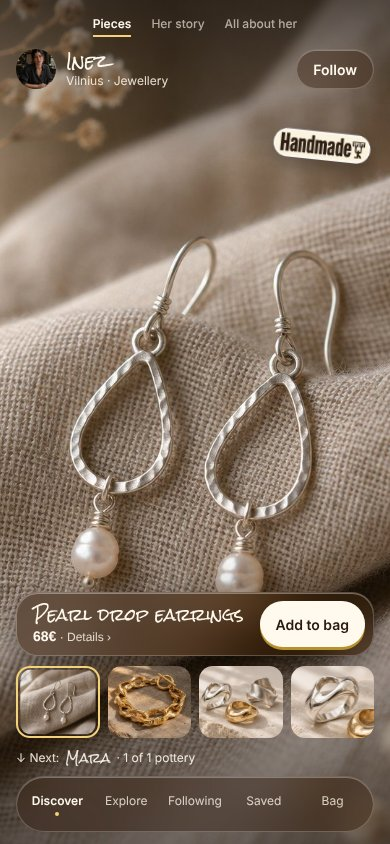
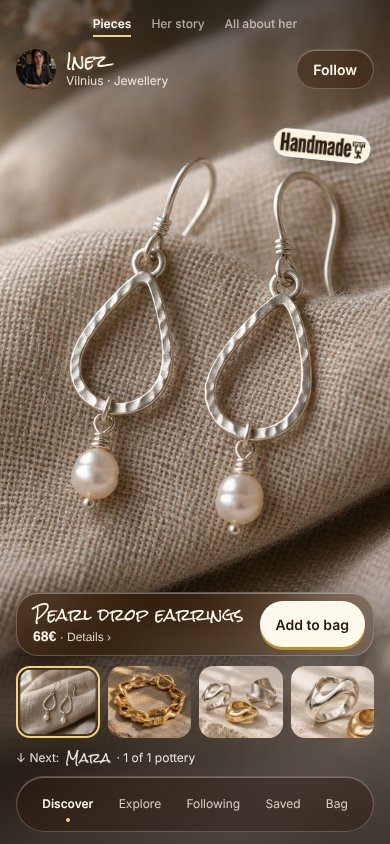
Discover v3: product safe zone (tokens, photo shift, blurred fill, Studio focal point)
Claude-Session: https://claude.ai/code/session_016UKgzHdCXnhGePkvkRhLow

diff --git a/docs/design/screens/03-discover-v3.dc.html b/docs/design/screens/03-discover-v3.dc.html
@@ -47,7 +47,10 @@ button.sec:not(.gs){background:transparent;border:0}
 .lay{position:absolute;inset:0;display:flex;overflow-x:auto;scroll-snap-type:x mandatory;scrollbar-width:none}
 .pan{position:relative;flex:0 0 100%;height:100%;scroll-snap-align:start;overflow:hidden}
 .prof{position:absolute;inset:0;overflow-y:auto;padding:0 16px;scrollbar-width:none}
-.hero{position:absolute;inset:0;width:100%;height:100%;object-fit:cover;transition:opacity .25s}
+.mk{--safe-top:104px;--safe-bottom:262px;--safe-shift:calc((var(--safe-top) - var(--safe-bottom)) / 2)}
+.hero{position:absolute;left:0;width:100%;object-fit:cover;transition:opacity .25s;-webkit-mask-image:linear-gradient(#000 82%,transparent);mask-image:linear-gradient(#000 82%,transparent)}
+.safe{display:none;position:absolute;left:16px;right:16px;top:var(--safe-top);bottom:var(--safe-bottom);border:1.5px dashed #f3d27a;border-radius:12px;z-index:9;pointer-events:none}
+.showsafe .safe{display:block}
 .bar{position:absolute;left:16px;right:16px;bottom:188px;z-index:8;border-radius:22px;padding:8px 8px 8px 16px;height:64px;box-sizing:border-box;display:flex;align-items:center;gap:10px}
 .more{position:absolute;left:16px;right:16px;bottom:106px;z-index:8;display:grid;grid-template-columns:repeat(4,minmax(0,1fr));gap:8px}
 .tb{width:100%;height:72px;border-radius:14px;overflow:hidden;border:0;padding:0;background:none;cursor:pointer;flex-shrink:0;position:relative}
@@ -66,7 +69,9 @@ button.sec:not(.gs){background:transparent;border:0}
 </style>  <div class="feed"><section class="mk" aria-label="Inez">
  <div class="lay">
   <div class="pan">
-    <img class="hero" src="{{hero0}}" alt="{{t0}}">
+    <img aria-hidden="true" src="{{hero0}}" alt="" style="position:absolute;inset:-40px;width:calc(100% + 80px);height:calc(100% + 80px);object-fit:cover;filter:blur(28px) brightness(.7)">
+    <img class="hero" src="{{hero0}}" alt="{{t0}}" style="top:var(--safe-shift);height:100%">
+    <div aria-hidden="true" class="safe"></div>
     <div aria-hidden="true" style="position:absolute;left:0;right:0;top:0;height:160px;z-index:5;pointer-events:none;background:linear-gradient(rgba(22,16,11,.6),rgba(22,16,11,.25) 55%,rgba(22,16,11,0))"></div>
     <div aria-hidden="true" style="position:absolute;left:0;right:0;bottom:0;height:300px;background:linear-gradient(rgba(22,16,11,0),rgba(22,16,11,.55))"></div>
     <div style="position:absolute;left:16px;right:16px;top:16px;z-index:7;display:flex;flex-direction:column;gap:12px">
@@ -110,7 +115,7 @@ button.sec:not(.gs){background:transparent;border:0}
   </div>
  </div>
  <div class="page{{on0}}" role="dialog" aria-label="Piece details">
-    <div style="position:relative;height:420px"><img src="{{hero0}}" alt="" style="width:100%;height:100%;object-fit:cover"><button type="button" aria-label="Close" onClick="{{close}}" class="ic gs" style="position:absolute;right:16px;top:16px">✕</button></div>
+    <div style="position:relative;height:420px"><img src="{{hero0}}" alt="" style="width:100%;height:100%;object-fit:cover"><button type="button" aria-label="Close" onClick="{{close}}" class="ic gs" style="position:absolute;right:16px;top:16px"><svg aria-hidden="true" width="16" height="16" viewBox="0 0 24 24" fill="none" stroke="#fffaed" stroke-width="2.2" stroke-linecap="round" style="display:block"><path d="M6 6l12 12M18 6L6 18"/></svg></button></div>
     <div style="padding:16px 16px 110px">
       <div style="display:flex;align-items:baseline;gap:10px"><span class="hand" style="flex:1;font-size:22px;line-height:1.35">{{t0}}</span><span style="font:600 20px Inter,sans-serif">{{p0}}</span></div>
       <span class="m" style="display:block;font-size:13px;margin-top:4px">{{s0}}</span>
@@ -122,7 +127,9 @@ button.sec:not(.gs){background:transparent;border:0}
 </section><section class="mk" aria-label="Mara">
  <div class="lay">
   <div class="pan">
-    <img class="hero" src="{{hero1}}" alt="{{t1}}">
+    <img aria-hidden="true" src="{{hero1}}" alt="" style="position:absolute;inset:-40px;width:calc(100% + 80px);height:calc(100% + 80px);object-fit:cover;filter:blur(28px) brightness(.7)">
+    <img class="hero" src="{{hero1}}" alt="{{t1}}" style="top:var(--safe-shift);height:100%">
+    <div aria-hidden="true" class="safe"></div>
     <div aria-hidden="true" style="position:absolute;left:0;right:0;top:0;height:160px;z-index:5;pointer-events:none;background:linear-gradient(rgba(22,16,11,.6),rgba(22,16,11,.25) 55%,rgba(22,16,11,0))"></div>
     <div aria-hidden="true" style="position:absolute;left:0;right:0;bottom:0;height:300px;background:linear-gradient(rgba(22,16,11,0),rgba(22,16,11,.55))"></div>
     <div style="position:absolute;left:16px;right:16px;top:16px;z-index:7;display:flex;flex-direction:column;gap:12px">
@@ -166,7 +173,7 @@ button.sec:not(.gs){background:transparent;border:0}
   </div>
  </div>
  <div class="page{{on1}}" role="dialog" aria-label="Piece details">
-    <div style="position:relative;height:420px"><img src="{{hero1}}" alt="" style="width:100%;height:100%;object-fit:cover"><button type="button" aria-label="Close" onClick="{{close}}" class="ic gs" style="position:absolute;right:16px;top:16px">✕</button></div>
+    <div style="position:relative;height:420px"><img src="{{hero1}}" alt="" style="width:100%;height:100%;object-fit:cover"><button type="button" aria-label="Close" onClick="{{close}}" class="ic gs" style="position:absolute;right:16px;top:16px"><svg aria-hidden="true" width="16" height="16" viewBox="0 0 24 24" fill="none" stroke="#fffaed" stroke-width="2.2" stroke-linecap="round" style="display:block"><path d="M6 6l12 12M18 6L6 18"/></svg></button></div>
     <div style="padding:16px 16px 110px">
       <div style="display:flex;align-items:baseline;gap:10px"><span class="hand" style="flex:1;font-size:22px;line-height:1.35">{{t1}}</span><span style="font:600 20px Inter,sans-serif">{{p1}}</span></div>
       <span class="m" style="display:block;font-size:13px;margin-top:4px">{{s1}}</span>
@@ -176,7 +183,7 @@ button.sec:not(.gs){background:transparent;border:0}
     </div>
  </div>
 </section></div>
-<nav aria-label="Main" class="gs" style="position:absolute;left:16px;right:16px;bottom:12px;height:54px;border-radius:999px;display:grid;grid-template-columns:repeat(5,minmax(0,1fr));padding:0 6px;align-items:center;z-index:9"><a href="#" style="display:flex;flex-direction:column;align-items:center;justify-content:center;gap:4px;min-height:44px;text-align:center;color:#fffaed;text-decoration:none;font:600 12px Inter,sans-serif">Discover<span style="width:4px;height:4px;border-radius:50%;background:#f3d27a"></span></a><a href="#" style="display:flex;flex-direction:column;align-items:center;justify-content:center;gap:4px;min-height:44px;text-align:center;color:rgba(255,250,237,.78);text-decoration:none;font:400 12px Inter,sans-serif">Explore<span style="width:4px;height:4px;border-radius:50%;background:transparent"></span></a><a href="#" style="display:flex;flex-direction:column;align-items:center;justify-content:center;gap:4px;min-height:44px;text-align:center;color:rgba(255,250,237,.78);text-decoration:none;font:400 12px Inter,sans-serif">Following<span style="width:4px;height:4px;border-radius:50%;background:transparent"></span></a><a href="#" style="display:flex;flex-direction:column;align-items:center;justify-content:center;gap:4px;min-height:44px;text-align:center;color:rgba(255,250,237,.78);text-decoration:none;font:400 12px Inter,sans-serif">Saved<span style="width:4px;height:4px;border-radius:50%;background:transparent"></span></a><a href="#" style="display:flex;flex-direction:column;align-items:center;justify-content:center;gap:4px;min-height:44px;text-align:center;color:rgba(255,250,237,.78);text-decoration:none;font:400 12px Inter,sans-serif">Bag<span style="width:4px;height:4px;border-radius:50%;background:transparent"></span></a></nav>
+<nav aria-label="Main" class="gs" style="position:absolute;left:16px;right:16px;bottom:12px;height:54px;border-radius:999px;display:flex;justify-content:space-evenly;align-items:stretch;z-index:9"><a href="#" style="position:relative;display:flex;align-items:center;justify-content:center;height:54px;padding:0;text-align:center;color:#fffaed;text-decoration:none;font:600 12px/1 Inter,sans-serif">Discover<span style="position:absolute;left:50%;bottom:9px;margin-left:-2px;width:4px;height:4px;border-radius:50%;background:#f3d27a"></span></a><a href="#" style="position:relative;display:flex;align-items:center;justify-content:center;height:54px;padding:0;text-align:center;color:rgba(255,250,237,.78);text-decoration:none;font:400 12px/1 Inter,sans-serif">Explore<span style="position:absolute;left:50%;bottom:9px;margin-left:-2px;width:4px;height:4px;border-radius:50%;background:transparent"></span></a><a href="#" style="position:relative;display:flex;align-items:center;justify-content:center;height:54px;padding:0;text-align:center;color:rgba(255,250,237,.78);text-decoration:none;font:400 12px/1 Inter,sans-serif">Following<span style="position:absolute;left:50%;bottom:9px;margin-left:-2px;width:4px;height:4px;border-radius:50%;background:transparent"></span></a><a href="#" style="position:relative;display:flex;align-items:center;justify-content:center;height:54px;padding:0;text-align:center;color:rgba(255,250,237,.78);text-decoration:none;font:400 12px/1 Inter,sans-serif">Saved<span style="position:absolute;left:50%;bottom:9px;margin-left:-2px;width:4px;height:4px;border-radius:50%;background:transparent"></span></a><a href="#" style="position:relative;display:flex;align-items:center;justify-content:center;height:54px;padding:0;text-align:center;color:rgba(255,250,237,.78);text-decoration:none;font:400 12px/1 Inter,sans-serif">Bag<span style="position:absolute;left:50%;bottom:9px;margin-left:-2px;width:4px;height:4px;border-radius:50%;background:transparent"></span></a></nav>
 </div>
 </x-dc>
 <script type="text/x-dc" data-dc-script data-props='{"startOn":{"editor":"enum","options":["closed","open"],"default":"closed"},"$preview":{"width":390,"height":844}}'>

diff --git a/docs/ai/FIXES.md b/docs/ai/FIXES.md
@@ -142,6 +142,12 @@ Spec: `docs/design/screens/03-discover-v3.dc.html`. References (real Rock Salt):
   - **No ellipsis on titles, ever.** The full title always shows on one line in the bar (Rock Salt 16). Studio "Add piece" title field gets a hard limit of **20 characters** with a live counter ("19/20"); existing longer titles must be shortened in the data. Second line in the bar is only "68€ · Details ›".
   - Bottom nav: 5 equal columns inside the pill with 6px inner padding, every label centred in its column; the pill uses the same 16px side margin as everything else.
 
+- **Product safe zone (Matas, 2026-11-25 11:50).** The piece must never sit under the glass bar/thumbs at the bottom or the tabs/maker row at the top. Reference with the zone drawn: .
+  - Tokens in :  (below the maker row) and  (above the bar). Safe zone = x 16–374, y 104–582 on 390×844.
+  - The photo is full width, , and shifted up by  (−79px) so its centre sits in the centre of the safe zone. The strip this uncovers at the bottom (behind the bar, thumbs and nav) shows the same photo blurred (28px, brightness .7), and the sharp photo fades into it over its last 18% (mask), so there is no hard edge.
+  - Studio "Add piece" photo step: show this dashed safe-zone frame over the preview and let the maker drag the photo to set a focal point (, 0–1, default .5). Discover uses  instead of the plain centre when present. Copy under the preview: "Keep your piece inside the frame."
+  - Same rule for any future overlay screen: nothing important of the product outside .
+
 - [ ] **9.1** Build it. Data from `@/lib/data` (pieces of the maker, first = the one Discover picked). Replaces the phone feed in `app/(site)/page.tsx`; desktop stays P7.
 - [ ] **9.2** Proof: screenshots at 390×844 and iPhone Safari next to the four references; every left edge at x=16 and right edge at x=374 (qa: no element between 0–15 or 375–390 except full-bleed photos); thumbs row and bar the same width; tap a thumb → everything switches; details open/close returns to the same piece and photo; sideways snaps per panel; up/down snaps per maker.
 
